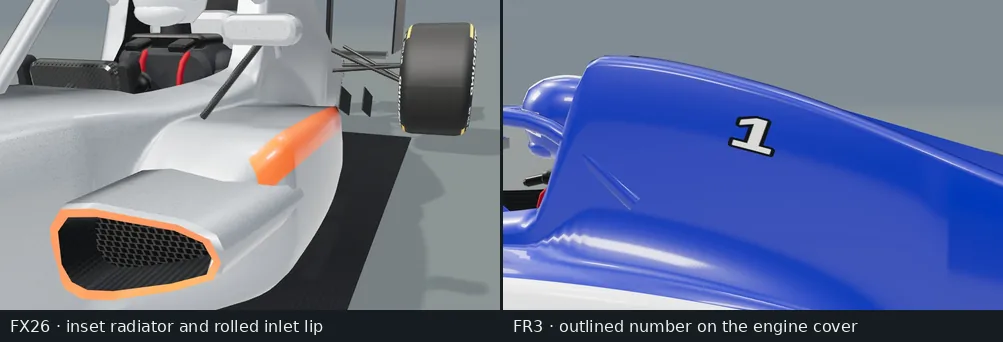
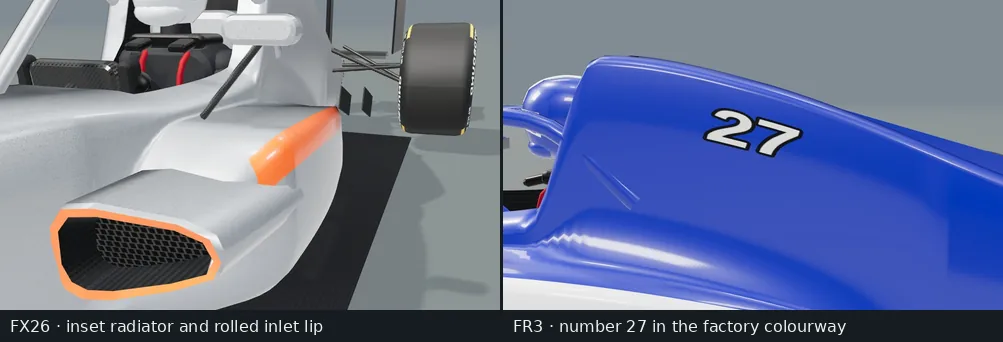
Show High-preset practice and wet FX26 gameplay with the mixed-grid verification

Changed region(s): [[0.5563, 0.9357, 0.8654, 0.9942], [0.68, 0.2924, 0.8036, 0.4678]]

diff --git a/docs/studio/reports/formula-race-presentation/README.md b/docs/studio/reports/formula-race-presentation/README.md
@@ -12,6 +12,10 @@ The Vellamar cockpit follows a rival at the start. Its steering wheel shows the 
 
 The chase comparison shows the distance from the lens to the tyres and the visible road ahead. The lower pair shows the finish-line change in a wet three-car start. The car silhouettes can be compared against the grass, fence and track edge.
 
+![A dry High-preset Vellamar practice lap with the roll-hoop camera and the in-car wheel display showing seventh gear at 280 kilometres per hour](high-practice.webp)
+
+These two 640 × 400 frames were captured from the High preset through the normal practice menus, with the HUD visible. The roll-hoop view shows a left-hand kerb at 99 km/h. In the cockpit the steering-wheel LCD and HUD both show seventh gear as the car passes the pits. The High preset uses local scene reflections, a photographed sky and dynamic sun shadows.
+
 ## Car hardware
 
 ![The APX-01 rear flap and hydraulic drive in two positions, a helmet under lateral load and the open rear assembly](apx-hardware.webp)
@@ -24,7 +28,11 @@ The three other Formula cars have their own front-wing spans, sweep, element pro
 
 ![The recessed radiator screen inside the FX26 inlet and an outlined FR3 race number following the engine cover](cooling-and-numbers.webp)
 
-The sidepod lips turn into recessed carbon ducts with honeycomb radiator faces. Both openings are visible head-on at all three levels of detail. The entrant’s number follows the curved nose and both sides of the engine cover. A dark outline keeps the same number design legible across light and dark paint.
+The sidepod lips turn into recessed carbon ducts with honeycomb radiator faces. Both openings are visible head-on at all three levels of detail. The entrant’s number follows the curved nose and both sides of the engine cover. A dark outline keeps the same number design legible across light and dark paint. The FR3 close-up shows a number-only change to 27 on its original blue paint.
+
+![FX26 at Vellamar during rain, seen from the chase car and through the halo](fx26-wet-lap.webp)
+
+These shots follow the silver FX26 on Medium in the rain. Its visible paint and accent are the reflection surfaces for this car. The lower presets use the sky environment. High can also capture the local circuit around the followed car, including the pit building and stands.
 
 ## Geometry submitted by two Vellamar cameras
 
@@ -36,3 +44,9 @@ Both runs in each row use the same car count, weather, race position, camera and
 | Wet grid, three cars, finish-line camera | 624 × 390 | 1,457,101 | 1,090,553 | −25.2% | 931 | 797 |
 
 The surface detail budget accounts for the first reduction. In the second view the followed car retains its nearest detail level while the two rivals use the middle level. Resolution and focal length determine when a rival changes level. These readings measure geometry and draw submissions. Console frame time and input latency require a hardware capture.
+
+## Race verification
+
+A full field of twelve cars ran a two-minute wet Vellamar start twice with the same seed and three entrants in each of the four Formula models. All 120 one-second snapshots matched byte for byte across the two runs, including the wheel and aero telemetry. Every entrant reached at least 228 km/h. Both runs used the production 120 Hz simulation.
+
+A separate six-car, eight-lap changing-weather race finished and passed four replay seeks. The ten-car wet-pit scenarios and the dry, changeable and rain driving checks also passed.
